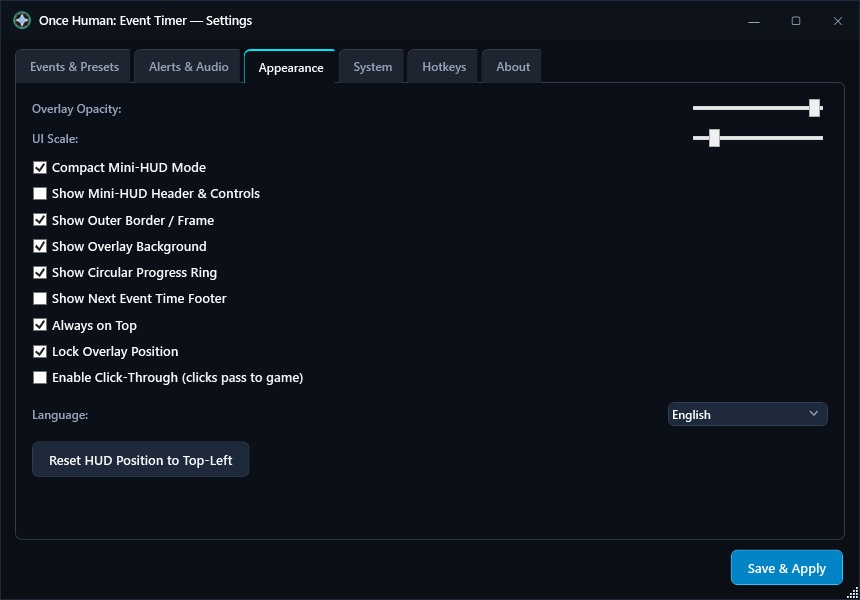
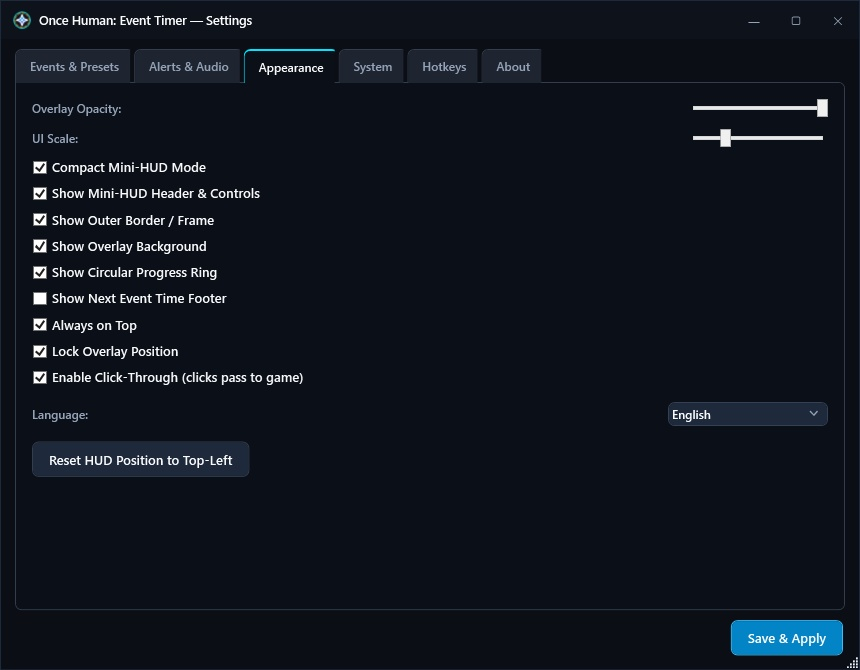
docs: Refresh README screenshots with high-contrast stardust backdrops and updated v1.5.4 UI features

diff --git a/src/OnceHumanEventTimer.UI/App.Screenshots.cs b/src/OnceHumanEventTimer.UI/App.Screenshots.cs
@@ -38,12 +38,20 @@ public partial class App
             settingsService.Settings.AutoHideWhenGameOutOfFocus = false;
             settingsService.Settings.ShowBackground = true;
             settingsService.Settings.ShowBorder = true;
-            settingsService.Settings.Opacity = 0.95;
+            settingsService.Settings.Opacity = 1.0;
+            settingsService.Settings.ShowMiniControls = true;
+            settingsService.Settings.Scale = 1.0;
 
             var gEvent = settingsService.Settings.Events.FirstOrDefault(e => e.Id == "gravity-abyss");
             if (gEvent != null) gEvent.IsEnabled = true;
             var cEvent = settingsService.Settings.Events.FirstOrDefault(e => e.Id == "cargo-scramble");
             if (cEvent != null) cEvent.IsEnabled = true;
+            var dEvent = settingsService.Settings.Events.FirstOrDefault(e => e.Id == "drift-greenhouse");
+            if (dEvent != null)
+            {
+                dEvent.IsEnabled = true;
+                dEvent.ShowOnlyWhenUpcoming = false;
+            }
 
             var scheduler = _serviceProvider!.GetRequiredService<IEventScheduler>();
             scheduler.SetTrackedEvents(settingsService.Settings.Events, settingsService.Settings.ActiveEventId, 0);
@@ -55,7 +63,7 @@ public partial class App
             {
                 WindowStartupLocation = WindowStartupLocation.CenterScreen,
                 Width = 860,
-                Height = 600
+                Height = 670
             };
             settingsWindow.Show();
             settingsWindow.UpdateLayout();
@@ -68,49 +76,79 @@ public partial class App
                 tabControl.SelectedIndex = 0;
                 settingsWindow.UpdateLayout();
                 await Task.Delay(250);
-                CaptureVisual(settingsWindow, Path.Combine(docsDir, "settings-events.jpg"), 860, 600, isJpeg: true);
+                CaptureVisual(settingsWindow, Path.Combine(docsDir, "settings-events.jpg"), 860, 670, isJpeg: true);
                 File.AppendAllText(logFile, "Captured settings-events.jpg\n");
 
                 // Tab 1: Alerts & Audio
                 tabControl.SelectedIndex = 1;
                 settingsWindow.UpdateLayout();
                 await Task.Delay(250);
-                CaptureVisual(settingsWindow, Path.Combine(docsDir, "settings-audio.png"), 860, 600);
+                CaptureVisual(settingsWindow, Path.Combine(docsDir, "settings-audio.png"), 860, 670);
                 File.AppendAllText(logFile, "Captured settings-audio.png\n");
 
                 // Tab 2: Appearance
                 tabControl.SelectedIndex = 2;
                 settingsWindow.UpdateLayout();
                 await Task.Delay(250);
-                CaptureVisual(settingsWindow, Path.Combine(docsDir, "hud-appearance.jpg"), 860, 600, isJpeg: true);
+                CaptureVisual(settingsWindow, Path.Combine(docsDir, "hud-appearance.jpg"), 860, 670, isJpeg: true);
                 File.AppendAllText(logFile, "Captured hud-appearance.jpg\n");
 
                 // Tab 3: System
                 tabControl.SelectedIndex = 3;
                 settingsWindow.UpdateLayout();
                 await Task.Delay(250);
-                CaptureVisual(settingsWindow, Path.Combine(docsDir, "settings-system.png"), 860, 600);
+                CaptureVisual(settingsWindow, Path.Combine(docsDir, "settings-system.png"), 860, 670);
                 File.AppendAllText(logFile, "Captured settings-system.png\n");
             }
             settingsWindow.Close();
 
-            // 2. Capture HUD Overlay
+            // 2. Capture HUD Overlay (Vibrant Atmospheric Stardust Backdrop)
             var overlayWindow = Current.Windows.OfType<OverlayWindow>().FirstOrDefault() ?? (OverlayWindow)MainWindow;
             var overlayVm = _serviceProvider!.GetRequiredService<OverlayViewModel>();
-            var darkBackdrop = new SolidColorBrush(Color.FromRgb(0x08, 0x0C, 0x14));
+            var rootBorder = (FrameworkElement)overlayWindow.Content;
 
+            overlayVm.ShowBackground = true;
+            overlayVm.ShowBorder = true;
+            overlayVm.ShowMiniControls = true;
+            overlayVm.Opacity = 1.0;
+            overlayVm.Scale = 1.0;
+
+            var hudBackdrop = new RadialGradientBrush(
+                Color.FromRgb(0x13, 0x1D, 0x30),
+                Color.FromRgb(0x06, 0x09, 0x12))
+            {
+                Center = new Point(0.5, 0.45),
+                GradientOrigin = new Point(0.5, 0.45),
+                RadiusX = 0.85,
+                RadiusY = 0.85
+            };
+
+            // 2A. Capture Full Multi-Timer HUD (shows Cargo Scramble, Gravity Abyss, Drift Greenhouse)
             overlayVm.CompactMode = false;
+            overlayWindow.Width = double.NaN;
+            overlayWindow.Height = double.NaN;
+            overlayWindow.SizeToContent = SizeToContent.WidthAndHeight;
             overlayWindow.Show();
             overlayWindow.UpdateLayout();
-            await Task.Delay(300);
-            CaptureVisual(overlayWindow, Path.Combine(docsDir, "hud-multitimer.png"), backdrop: darkBackdrop);
-            File.AppendAllText(logFile, "Captured hud-multitimer.png\n");
+            await Task.Delay(350);
+            CaptureVisual(overlayWindow, Path.Combine(docsDir, "hud-multitimer.png"), 520, 360, backdrop: hudBackdrop, drawBorderFrame: true);
+            File.AppendAllText(logFile, $"Captured hud-multitimer.png (size: {overlayWindow.ActualWidth}x{overlayWindow.ActualHeight})\n");
 
+            // 2B. Capture Mini-HUD (showcase Single-Timer Gravity Abyss floating pill)
+            var singleList = settingsService.Settings.Events.Select(e => e.Clone()).ToList();
+            foreach (var ev in singleList) ev.IsEnabled = false;
+            var gMini = singleList.FirstOrDefault(e => e.Id == "gravity-abyss");
+            if (gMini != null) gMini.IsEnabled = true;
+
+            scheduler.SetTrackedEvents(singleList, "gravity-abyss", 0);
             overlayVm.CompactMode = true;
+            overlayWindow.Width = 250;
+            overlayWindow.Height = double.NaN;
+            overlayWindow.SizeToContent = SizeToContent.Height;
             overlayWindow.UpdateLayout();
-            await Task.Delay(300);
-            CaptureVisual(overlayWindow, Path.Combine(docsDir, "hud-mini.png"), backdrop: darkBackdrop);
-            File.AppendAllText(logFile, "Captured hud-mini.png\n");
+            await Task.Delay(350);
+            CaptureVisual(overlayWindow, Path.Combine(docsDir, "hud-mini.png"), 380, 180, backdrop: hudBackdrop, drawBorderFrame: true);
+            File.AppendAllText(logFile, $"Captured hud-mini.png (size: {overlayWindow.ActualWidth}x{overlayWindow.ActualHeight})\n");
 
             File.AppendAllText(logFile, "Capture completed successfully!\n");
         }
@@ -125,24 +163,41 @@ public partial class App
         }
     }
 
-    private static void CaptureVisual(FrameworkElement visual, string outputPath, int defaultW = 0, int defaultH = 0, bool isJpeg = false, Brush? backdrop = null)
+    private static void CaptureVisual(FrameworkElement visual, string outputPath, int defaultW = 0, int defaultH = 0, bool isJpeg = false, Brush? backdrop = null, bool drawBorderFrame = false)
     {
-        int width = (int)Math.Max(visual.ActualWidth, visual.Width);
-        int height = (int)Math.Max(visual.ActualHeight, visual.Height);
-        if (width <= 0) width = defaultW > 0 ? defaultW : 400;
-        if (height <= 0) height = defaultH > 0 ? defaultH : 300;
+        double rawW = !double.IsNaN(visual.ActualWidth) && visual.ActualWidth > 0 ? visual.ActualWidth : (!double.IsNaN(visual.Width) ? visual.Width : 0);
+        double rawH = !double.IsNaN(visual.ActualHeight) && visual.ActualHeight > 0 ? visual.ActualHeight : (!double.IsNaN(visual.Height) ? visual.Height : 0);
 
-        var rtb = new RenderTargetBitmap(width, height, 96, 96, PixelFormats.Pbgra32);
-        if (backdrop != null)
+        int outW = defaultW > 0 ? defaultW : (int)rawW;
+        int outH = defaultH > 0 ? defaultH : (int)rawH;
+        if (outW <= 0) outW = 400;
+        if (outH <= 0) outH = 300;
+
+        int visualW = (int)Math.Max(1, rawW > 0 ? rawW : outW);
+        int visualH = (int)Math.Max(1, rawH > 0 ? rawH : outH);
+
+        var rtb = new RenderTargetBitmap(outW, outH, 96, 96, PixelFormats.Pbgra32);
+        var dv = new DrawingVisual();
+        using (var dc = dv.RenderOpen())
         {
-            var dv = new DrawingVisual();
-            using (var dc = dv.RenderOpen())
+            if (backdrop != null)
             {
-                dc.DrawRectangle(backdrop, null, new Rect(0, 0, width, height));
+                var borderPen = drawBorderFrame ? new Pen(new SolidColorBrush(Color.FromArgb(0x35, 0x00, 0xF0, 0xFF)), 1.5) : null;
+                dc.DrawRoundedRectangle(backdrop, borderPen, new Rect(0.75, 0.75, Math.Max(1, outW - 1.5), Math.Max(1, outH - 1.5)), 10, 10);
             }
-            rtb.Render(dv);
+
+            int offsetX = outW > visualW ? (outW - visualW) / 2 : 0;
+            int offsetY = outH > visualH ? (outH - visualH) / 2 : 0;
+
+            var brush = new VisualBrush(visual)
+            {
+                Stretch = Stretch.None,
+                Viewbox = new Rect(0, 0, visualW, visualH),
+                ViewboxUnits = BrushMappingMode.Absolute
+            };
+            dc.DrawRectangle(brush, null, new Rect(offsetX, offsetY, visualW, visualH));
         }
-        rtb.Render(visual);
+        rtb.Render(dv);
 
         using var fs = File.Create(outputPath);
         if (isJpeg)
